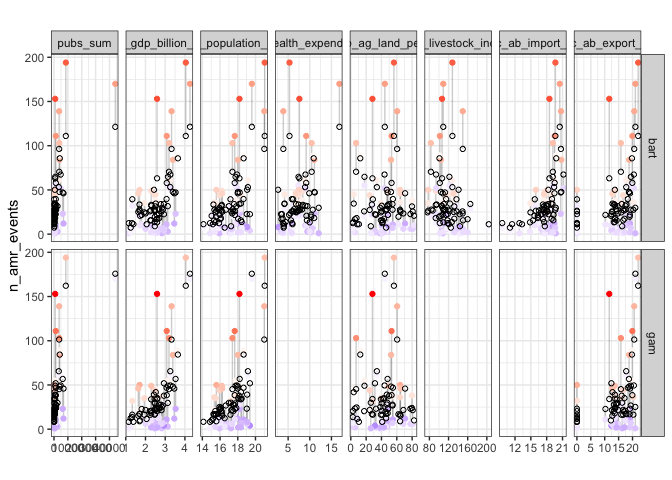
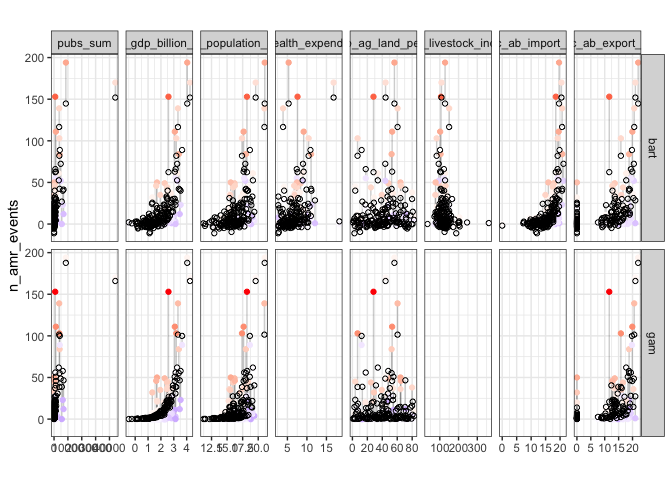
Include countries with zero AMR events

diff --git a/01-country-analysis.md b/01-country-analysis.md
@@ -1,7 +1,7 @@
 exploratory\_analysis
 ================
 emmamendelsohn
-Thu Mar 14 11:06:17 2019
+Mon Mar 18 08:38:24 2019
 
 —————–View
 Data—————–
@@ -20,51 +20,51 @@ Data—————–
     ## 
     ## Parametric coefficients:
     ##             Estimate Std. Error t value Pr(>|t|)    
-    ## (Intercept)   3.3100     0.1472   22.49   <2e-16 ***
+    ## (Intercept)   1.3811     0.2829   4.881 2.71e-06 ***
     ## ---
     ## Signif. codes:  0 '***' 0.001 '**' 0.01 '*' 0.05 '.' 0.1 ' ' 1
     ## 
     ## Approximate significance of smooth terms:
     ##                         edf Ref.df     F p-value  
-    ## s(wb_gdp_billion_log) 1.478  1.828 0.377  0.5889  
-    ## s(wb_population_log)  1.000  1.000 4.672  0.0353 *
-    ## s(wb_ag_land_perc)    1.000  1.000 0.758  0.3880  
-    ## s(oec_ab_export_log)  1.000  1.000 0.627  0.4323  
-    ## s(pubs_sum)           1.000  1.000 0.282  0.5978  
+    ## s(wb_gdp_billion_log) 1.000  1.000 6.561  0.0114 *
+    ## s(wb_population_log)  1.000  1.000 2.355  0.1270  
+    ## s(wb_ag_land_perc)    1.000  1.000 0.151  0.6982  
+    ## s(oec_ab_export_log)  1.000  1.000 1.518  0.2198  
+    ## s(pubs_sum)           1.716  2.018 0.508  0.6037  
     ## ---
     ## Signif. codes:  0 '***' 0.001 '**' 0.01 '*' 0.05 '.' 0.1 ' ' 1
     ## 
-    ## R-sq.(adj) =   0.53   Deviance explained = 45.3%
-    ## -REML = 126.22  Scale est. = 28.942    n = 57
+    ## R-sq.(adj) =   0.65   Deviance explained = 62.1%
+    ## -REML = 298.49  Scale est. = 32.59     n = 154
 
     ##                  para s(wb_gdp_billion_log) s(wb_population_log)
-    ## worst    2.856221e-21             0.9998359            0.9314973
-    ## observed 2.856221e-21             0.9775111            0.8171150
-    ## estimate 2.856221e-21             0.9410362            0.7886507
+    ## worst    6.171808e-22             0.9820172            0.7928571
+    ## observed 6.171808e-22             0.9110801            0.7864109
+    ## estimate 6.171808e-22             0.8307339            0.6932861
     ##          s(wb_ag_land_perc) s(oec_ab_export_log) s(pubs_sum)
-    ## worst             0.9305826             0.971521   0.9998344
-    ## observed          0.4697191             0.854018   0.9915412
-    ## estimate          0.5066002             0.835728   0.9906753
+    ## worst             0.4963853            0.9067014   0.9837666
+    ## observed          0.3496542            0.6845594   0.9264111
+    ## estimate          0.3410067            0.6222398   0.9161905
 
 ![](01-country-analysis_files/figure-gfm/r%20mod-gam-1.png)<!-- -->
 
     ## 
     ## Method: REML   Optimizer: outer newton
-    ## full convergence after 12 iterations.
-    ## Gradient range [-1.536826e-05,4.236904e-05]
-    ## (score 126.2167 & scale 28.94186).
-    ## Hessian positive definite, eigenvalue range [2.814424e-06,25.50274].
+    ## full convergence after 9 iterations.
+    ## Gradient range [-7.084472e-05,3.712677e-05]
+    ## (score 298.4862 & scale 32.59028).
+    ## Hessian positive definite, eigenvalue range [6.554219e-06,74.00157].
     ## Model rank =  46 / 46 
     ## 
     ## Basis dimension (k) checking results. Low p-value (k-index<1) may
     ## indicate that k is too low, especially if edf is close to k'.
     ## 
-    ##                         k'  edf k-index p-value  
-    ## s(wb_gdp_billion_log) 9.00 1.48    1.14   0.850  
-    ## s(wb_population_log)  9.00 1.00    1.06   0.635  
-    ## s(wb_ag_land_perc)    9.00 1.00    0.83   0.085 .
-    ## s(oec_ab_export_log)  9.00 1.00    0.93   0.310  
-    ## s(pubs_sum)           9.00 1.00    0.88   0.150  
+    ##                         k'  edf k-index p-value   
+    ## s(wb_gdp_billion_log) 9.00 1.00    0.96   0.630   
+    ## s(wb_population_log)  9.00 1.00    1.00   0.795   
+    ## s(wb_ag_land_perc)    9.00 1.00    0.73   0.005 **
+    ## s(oec_ab_export_log)  9.00 1.00    0.84   0.070 . 
+    ## s(pubs_sum)           9.00 1.72    0.88   0.185   
     ## ---
     ## Signif. codes:  0 '***' 0.001 '**' 0.01 '*' 0.05 '.' 0.1 ' ' 1
 
@@ -78,14 +78,14 @@ Data—————–
     ##  k: 2.000000
     ##  degrees of freedom in sigma prior: 3.000000
     ##  quantile in sigma prior: 0.900000
-    ##  scale in sigma prior: 0.004738
+    ##  scale in sigma prior: 0.002294
     ##  power and base for tree prior: 2.000000 0.950000
     ##  use quantiles for rule cut points: false
     ## data:
-    ##  number of training observations: 57
+    ##  number of training observations: 154
     ##  number of test observations: 0
-    ##  number of explanatory variables: 26
-    ##  init sigma: 30.099537, curr sigma: 30.099537
+    ##  number of explanatory variables: 28
+    ##  init sigma: 21.053375, curr sigma: 21.053375
     ## 
     ## Cutoff rules c in x<=c vs x>c
     ## Number of cutoffs: (var: number of possible c):
@@ -94,7 +94,7 @@ Data—————–
     ## (11: 100) (12: 100) (13: 100) (14: 100) (15: 100) 
     ## (16: 100) (17: 100) (18: 100) (19: 100) (20: 100) 
     ## (21: 100) (22: 100) (23: 100) (24: 100) (25: 100) 
-    ## (26: 100) 
+    ## (26: 100) (27: 100) (28: 100) 
     ## Running mcmc loop:
     ## iteration: 100 (of 1000)
     ## iteration: 200 (of 1000)
@@ -106,54 +106,54 @@ Data—————–
     ## iteration: 800 (of 1000)
     ## iteration: 900 (of 1000)
     ## iteration: 1000 (of 1000)
-    ## total seconds in loop: 0.855961
+    ## total seconds in loop: 1.111204
     ## 
     ## Tree sizes, last iteration:
-    ## [1] 2 3 3 3 2 2 2 2 2 2 1 2 2 2 2 2 2 4 
-    ## 2 2 2 2 2 2 2 2 2 1 3 2 2 2 2 3 1 2 2 2 
-    ## 1 3 2 3 2 2 2 2 2 2 2 2 2 2 3 2 2 3 2 1 
-    ## 3 2 2 2 2 2 2 3 3 3 3 3 2 2 2 2 3 3 2 2 
-    ## 2 2 2 2 2 2 2 2 3 2 1 2 2 3 2 2 2 2 2 2 
-    ## 2 4 2 2 2 3 2 2 2 3 2 2 2 2 2 2 2 3 3 3 
-    ## 3 3 1 3 2 2 2 2 2 2 2 2 2 3 2 2 2 3 3 2 
-    ## 2 2 2 2 2 2 2 2 2 2 3 2 2 2 2 3 2 2 2 1 
-    ## 2 2 2 3 2 3 2 3 2 2 2 1 2 4 2 3 2 2 2 2 
-    ## 2 3 2 2 2 2 2 2 2 1 3 2 2 2 2 2 2 1 2 2 
-    ## 2 2 
+    ## [1] 2 2 2 2 2 1 2 2 2 3 2 2 2 2 3 2 2 3 
+    ## 3 3 3 2 2 3 2 3 2 2 2 1 2 2 2 4 1 2 2 2 
+    ## 2 2 2 2 2 2 1 2 2 4 2 2 2 2 2 2 2 1 2 2 
+    ## 2 2 2 2 3 2 2 2 2 2 3 2 2 1 2 2 4 2 2 2 
+    ## 2 2 3 2 2 2 2 2 3 2 2 2 2 3 2 2 2 2 2 1 
+    ## 1 5 3 1 3 2 2 2 2 2 2 2 2 2 2 2 2 2 2 2 
+    ## 3 2 2 2 2 2 2 2 5 3 2 2 2 2 2 2 2 2 2 2 
+    ## 2 2 2 2 2 2 2 2 2 2 2 2 2 3 2 3 2 3 2 2 
+    ## 2 2 2 1 1 2 2 4 2 2 2 2 2 2 3 3 2 3 2 3 
+    ## 2 2 1 2 2 2 3 1 3 2 2 2 4 2 2 2 2 3 2 2 
+    ## 2 3 
     ## 
     ## Variable Usage, last iteration (var:count):
-    ## (1: 12) (2: 12) (3: 8) (4: 11) (5: 4) 
-    ## (6: 12) (7: 11) (8: 10) (9: 9) (10: 9) 
-    ## (11: 6) (12: 12) (13: 10) (14: 14) (15: 9) 
-    ## (16: 6) (17: 10) (18: 8) (19: 10) (20: 11) 
-    ## (21: 7) (22: 7) (23: 3) (24: 5) (25: 6) 
-    ## (26: 11) 
+    ## (1: 8) (2: 12) (3: 11) (4: 5) (5: 10) 
+    ## (6: 8) (7: 9) (8: 15) (9: 5) (10: 10) 
+    ## (11: 4) (12: 8) (13: 8) (14: 10) (15: 7) 
+    ## (16: 7) (17: 7) (18: 8) (19: 8) (20: 7) 
+    ## (21: 10) (22: 13) (23: 8) (24: 8) (25: 7) 
+    ## (26: 5) (27: 4) (28: 9) 
     ## DONE BART
 
     ##                 Length Class         Mode   
-    ## call                5  -none-        call   
-    ## first.sigma       100  -none-        numeric
-    ## sigma            1000  -none-        numeric
-    ## sigest              1  -none-        numeric
-    ## yhat.train      57000  -none-        numeric
-    ## yhat.train.mean    57  -none-        numeric
-    ## yhat.test           0  -none-        NULL   
-    ## yhat.test.mean      0  -none-        NULL   
-    ## varcount        26000  -none-        numeric
-    ## y                  57  -none-        numeric
-    ## fit                 1  dbartsSampler S4
+    ## call                 5 -none-        call   
+    ## first.sigma        100 -none-        numeric
+    ## sigma             1000 -none-        numeric
+    ## sigest               1 -none-        numeric
+    ## yhat.train      154000 -none-        numeric
+    ## yhat.train.mean    154 -none-        numeric
+    ## yhat.test            0 -none-        NULL   
+    ## yhat.test.mean       0 -none-        NULL   
+    ## varcount         28000 -none-        numeric
+    ## y                  154 -none-        numeric
+    ## fit                  1 dbartsSampler S4
 
 —————–Compare models—————–
 
     ## # A tibble: 2 x 2
     ##   model mean_residuals
     ##   <chr>          <dbl>
-    ## 1 bart            18.3
-    ## 2 gam             20.4
+    ## 1 bart            8.24
+    ## 2 gam             9.47
 
     ##              n_amr_events       gam      bart
-    ## n_amr_events    1.0000000 0.7605294 0.8802326
-    ## gam             0.7605294 1.0000000 0.8770936
-    ## bart            0.8802326 0.8770936 1.0000000
+    ## n_amr_events    1.0000000 0.8142246 0.9073768
+    ## gam             0.8142246 1.0000000 0.9216600
+    ## bart            0.9073768 0.9216600 1.0000000
 
 ![](01-country-analysis_files/figure-gfm/r%20mod-comp-1.png)<!-- -->![](01-country-analysis_files/figure-gfm/r%20mod-comp-2.png)<!-- -->![](01-country-analysis_files/figure-gfm/r%20mod-comp-3.png)<!-- -->
